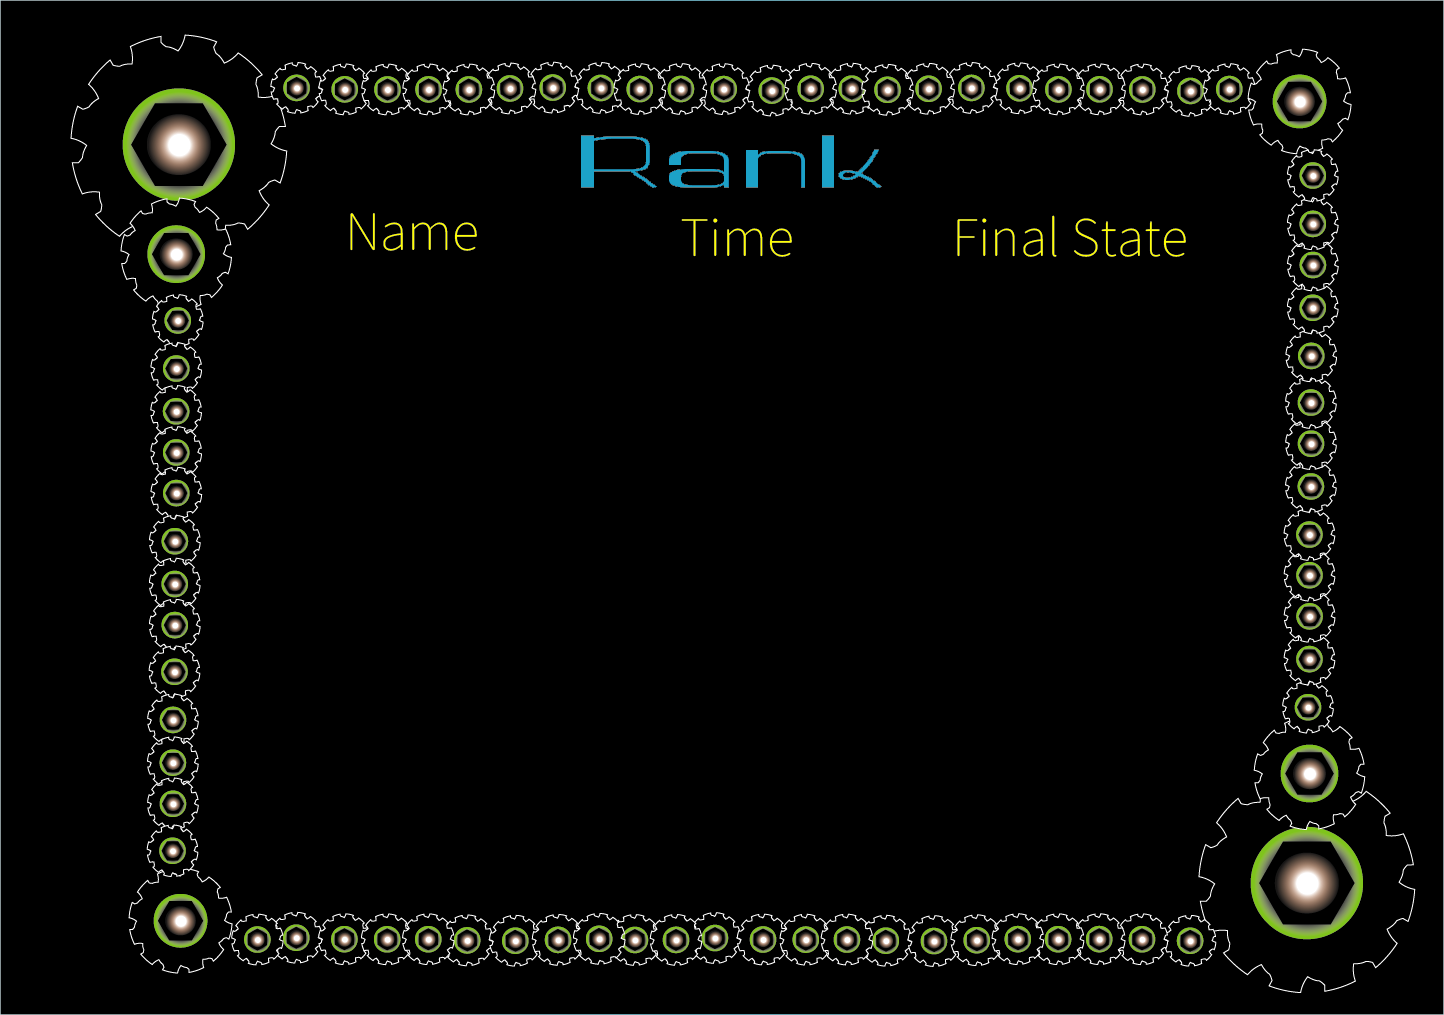
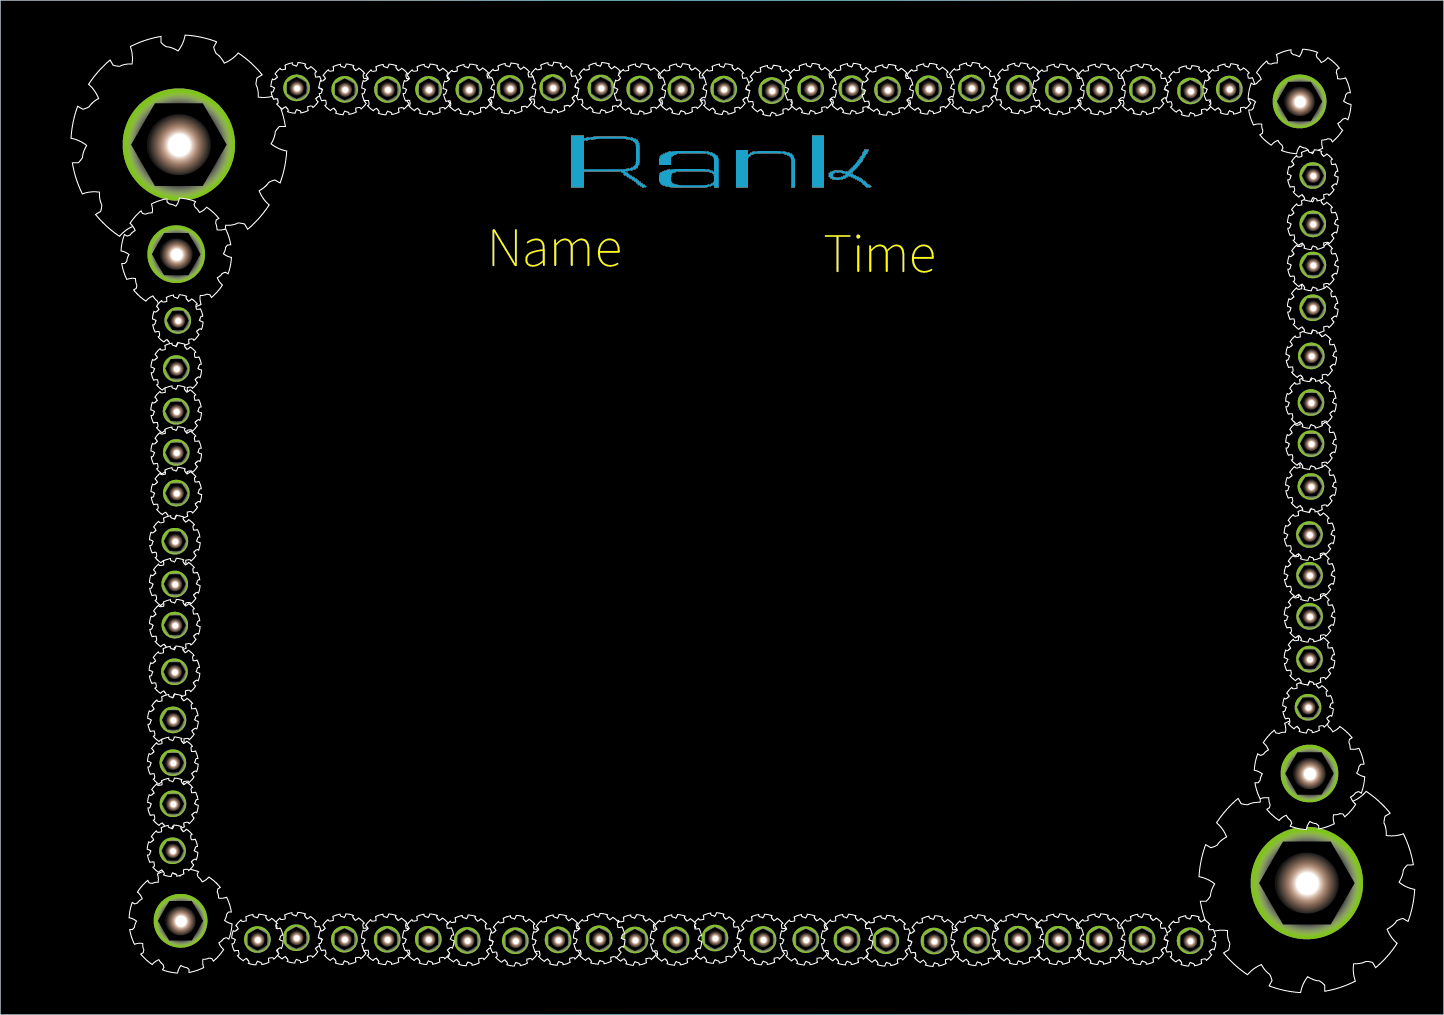
Adjust the layout a bit

diff --git a/TheEvolution/FormEnd.Designer.cs b/TheEvolution/FormEnd.Designer.cs
@@ -78,7 +78,7 @@
             // picBoxGameOver
             // 
             this.picBoxGameOver.Image = global::TheEvolution.Properties.Resources.GameOver;
-            this.picBoxGameOver.Location = new System.Drawing.Point(23, 376);
+            this.picBoxGameOver.Location = new System.Drawing.Point(12, 376);
             this.picBoxGameOver.Name = "picBoxGameOver";
             this.picBoxGameOver.Size = new System.Drawing.Size(228, 192);
             this.picBoxGameOver.SizeMode = System.Windows.Forms.PictureBoxSizeMode.StretchImage;
@@ -89,10 +89,10 @@
             // labelName
             // 
             this.labelName.AutoSize = true;
-            this.labelName.BackColor = System.Drawing.SystemColors.ControlText;
+            this.labelName.BackColor = System.Drawing.Color.Transparent;
             this.labelName.Font = new System.Drawing.Font("Arial Rounded MT Bold", 24F, System.Drawing.FontStyle.Regular, System.Drawing.GraphicsUnit.Point, ((byte)(0)));
             this.labelName.ForeColor = System.Drawing.Color.Cyan;
-            this.labelName.Location = new System.Drawing.Point(267, 158);
+            this.labelName.Location = new System.Drawing.Point(376, 158);
             this.labelName.Name = "labelName";
             this.labelName.Size = new System.Drawing.Size(160, 55);
             this.labelName.TabIndex = 9;
@@ -101,10 +101,10 @@
             // labelTime
             // 
             this.labelTime.AutoSize = true;
-            this.labelTime.BackColor = System.Drawing.SystemColors.ControlText;
+            this.labelTime.BackColor = System.Drawing.Color.Transparent;
             this.labelTime.Font = new System.Drawing.Font("Arial Rounded MT Bold", 24F, System.Drawing.FontStyle.Regular, System.Drawing.GraphicsUnit.Point, ((byte)(0)));
             this.labelTime.ForeColor = System.Drawing.Color.Cyan;
-            this.labelTime.Location = new System.Drawing.Point(561, 158);
+            this.labelTime.Location = new System.Drawing.Point(680, 170);
             this.labelTime.Name = "labelTime";
             this.labelTime.Size = new System.Drawing.Size(138, 55);
             this.labelTime.TabIndex = 10;

diff --git a/TheEvolution/FormEnd.cs b/TheEvolution/FormEnd.cs
@@ -61,12 +61,12 @@ namespace TheEvolution {
 
         private void FormEnd_Load(object sender, EventArgs e) {
             GameSystem.SetControlSize(picBoxRestart, ClientSize, 0.974, 0.03, 0.05, 0.06);
-            GameSystem.SetControlSize(labelPlayerTime, ClientSize, 0.5, 0.72, 0.1, 0.1);
+            GameSystem.SetControlSize(labelPlayerTime, ClientSize, 0.5, 0.74, 0.1, 0.1);
             GameSystem.SetControlSize(picBoxPlayerImage, ClientSize, 0.36, 0.8, 0.11, 0.14);
-            GameSystem.SetControlSize(textBoxName, ClientSize, 0.5, 0.8, 0.1, 0.2);
-            GameSystem.SetControlSize(labelConfirm, ClientSize, 0.66, 0.8, 0.1, 0.2);
-            GameSystem.SetControlSize(labelName, ClientSize, 0.33, 0.3, 0.35, 0.6);
-            GameSystem.SetControlSize(labelTime, ClientSize, 0.66, 0.3, 0.3, 0.6);
+            GameSystem.SetControlSize(textBoxName, ClientSize, 0.5, 0.81, 0.1, 0.2);
+            GameSystem.SetControlSize(labelConfirm, ClientSize, 0.64, 0.8, 0.1, 0.2);
+            GameSystem.SetControlSize(labelName, ClientSize, 0.37, 0.3, 0.35, 0.6);
+            GameSystem.SetControlSize(labelTime, ClientSize, 0.62, 0.3, 0.3, 0.6);
 
             if (!File.Exists("Evo.sqlite")) {
                 SQLiteConnection.CreateFile("Evo.sqlite");

diff --git a/TheEvolution/FormStage.Designer.cs b/TheEvolution/FormStage.Designer.cs
@@ -126,6 +126,7 @@
             // panelHelp
             // 
             this.panelHelp.BackColor = System.Drawing.Color.Silver;
+            this.panelHelp.BackgroundImage = global::TheEvolution.Properties.Resources.TutorialPanel;
             this.panelHelp.BackgroundImageLayout = System.Windows.Forms.ImageLayout.Stretch;
             this.panelHelp.Controls.Add(this.labelEnemy);
             this.panelHelp.Controls.Add(this.labelWall);
@@ -339,7 +340,7 @@
             // picBoxGif
             // 
             this.picBoxGif.BackColor = System.Drawing.Color.Black;
-            this.picBoxGif.Image = global::TheEvolution.Properties.Resources.Movegif;
+            this.picBoxGif.Image = global::TheEvolution.Properties.Resources.Evolution;
             this.picBoxGif.Location = new System.Drawing.Point(157, 38);
             this.picBoxGif.Name = "picBoxGif";
             this.picBoxGif.Size = new System.Drawing.Size(272, 206);

diff --git a/TheEvolution/Properties/Resources.Designer.cs b/TheEvolution/Properties/Resources.Designer.cs
@@ -1613,6 +1613,16 @@ namespace TheEvolution.Properties {
         /// <summary>
         ///   Looks up a localized resource of type System.Drawing.Bitmap.
         /// </summary>
+        internal static System.Drawing.Bitmap TutorialPanel {
+            get {
+                object obj = ResourceManager.GetObject("TutorialPanel", resourceCulture);
+                return ((System.Drawing.Bitmap)(obj));
+            }
+        }
+        
+        /// <summary>
+        ///   Looks up a localized resource of type System.Drawing.Bitmap.
+        /// </summary>
         internal static System.Drawing.Bitmap TutorialScreen {
             get {
                 object obj = ResourceManager.GetObject("TutorialScreen", resourceCulture);
